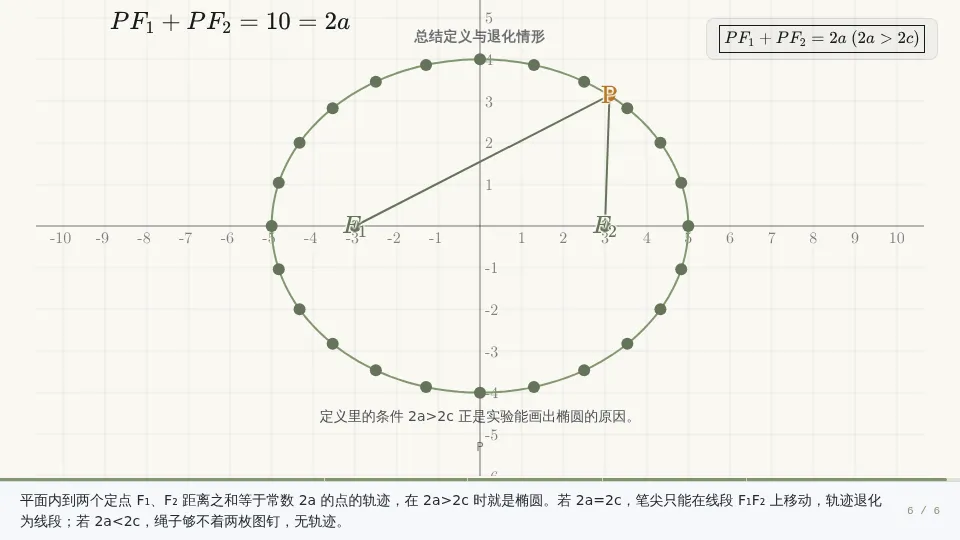
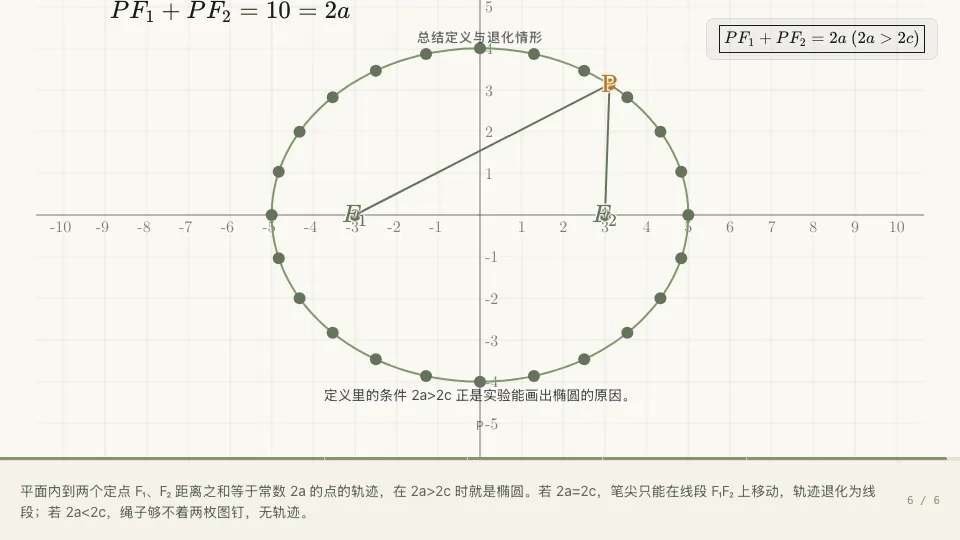
fix(player): 字幕条固定三行高度，视觉轨道不再随旁白跳动
字幕行原来以 minHeight 52 起步、随旁白长到三行，flex:1 的视觉轨道跟着
变矮，垂直居中的 AlgorithmRenderer / BarBlockRenderer 在步骤之间整体上下
跳（每行约 21px），graph_scene 整图轻微缩放。单调栈 mixed 预设第 6→7 步
标题上移 11px 就是这个原因。

- PlaybookComposition：字幕行改为固定 border-box 高度，始终预留
  SUBTITLE_MAX_LINES 行（3×21 + 2×8 内边距 + 1 边框 = 80px），视觉轨道
  恒为 457px；播放器与导出共用这一合成，两者一致。字号、行高、内边距
  收进 PLAYBOOK_LAYOUT，高度由它们推导。
- BarBlockRenderer：无辅助轨道时的柱区原为 342px，整列 498px 超出三行
  字幕下的轨道，二分查找 / 归并 / 快排每一步标题都被裁掉约 20px（修复前
  一行字幕时也裁约 6px）。柱区上限改为 288px，每条轨道的让出量从 110 改
  为实测占用的 56px：有轨道时的高度不变（单轨道仍为 232px，多轨道仍落在
  180px 下限），无轨道整列收到 444px。
- 重新渲染受影响的 28 张海报（另 4 张海报帧本就是三行字幕，不变）；生态学
  四张沿用深色主题。

diff --git a/apps/web/src/features/playbook/engine/renderers/BarBlockRenderer.test.tsx b/apps/web/src/features/playbook/engine/renderers/BarBlockRenderer.test.tsx
@@ -62,8 +62,8 @@ describe("BarBlockRenderer", () => {
     const markup = renderToStaticMarkup(BarBlockRenderer(props(barsStep(makeBars([9, 3])))));
     const hs = heightsOf(markup);
     // tallest bar reaches the max bar height; the value-3 bar is one third of it
-    expect(hs).toContain(342);
-    expect(hs).toContain(114);
+    expect(hs).toContain(288);
+    expect(hs).toContain(96);
   });
 
   it("keeps unchanged bars visible at the exact start of a later step", () => {
@@ -76,7 +76,7 @@ describe("BarBlockRenderer", () => {
     })));
 
     expect(markup).toMatch(/data-bar-index="0"[^>]*opacity:1/);
-    expect(markup).toContain("height:342px");
+    expect(markup).toContain("height:288px");
   });
 
   it("shrinks the bar field when auxiliary lanes need room under the pointer row", () => {
@@ -90,10 +90,10 @@ describe("BarBlockRenderer", () => {
     const markup = renderToStaticMarkup(BarBlockRenderer(props(barsStep(snap))));
     const hs = heightsOf(markup);
 
-    // 342 - 2 lanes * 110 = 122 → clamped to the 180px floor; the value-3 bar keeps its one-third proportion.
+    // 288 - 2 lanes * 56 = 176 → clamped to the 180px floor; the value-3 bar keeps its one-third proportion.
     expect(hs).toContain(180);
     expect(hs).toContain(60);
-    expect(hs).not.toContain(342);
+    expect(hs).not.toContain(288);
     expect(markup).toContain('data-auxiliary-role="deque"');
     expect(markup).toContain('data-auxiliary-role="result"');
   });
@@ -109,7 +109,7 @@ describe("BarBlockRenderer", () => {
     const markup = renderToStaticMarkup(BarBlockRenderer(props(barsStep(snap))));
     const hs = heightsOf(markup);
 
-    // Only the result row borrows height: 342 - 1 * 110 = 232.
+    // Only the result row borrows height: 288 - 1 * 56 = 232.
     expect(hs).toContain(232);
     expect(markup).toContain('data-stack-lane="stack"');
     expect(markup).toContain('data-stack-capacity="2"');
@@ -149,9 +149,9 @@ describe("BarBlockRenderer", () => {
 
     expect(markup.match(/data-bar-direction="negative"/g)).toHaveLength(2);
     expect(markup.match(/data-bar-direction="positive"/g)).toHaveLength(1);
-    expect(markup).toContain('data-zero-axis="171"');
-    expect(markup).toContain("height:171px");
-    expect(markup).toContain("height:57px");
+    expect(markup).toContain('data-zero-axis="144"');
+    expect(markup).toContain("height:144px");
+    expect(markup).toContain("height:48px");
     expect(markup).toContain('data-range-role="search_range"');
     expect(markup).toContain('data-element-states="leaving"');
     expect(markup).toContain('data-element-states="entering pivot"');

diff --git a/apps/web/src/features/playbook/engine/composition/PlaybookComposition.test.tsx b/apps/web/src/features/playbook/engine/composition/PlaybookComposition.test.tsx
@@ -29,6 +29,7 @@ vi.mock("remotion", async () => {
 
 import { PlaybookComposition } from "./PlaybookComposition";
 import { THEME_PALETTE } from "../../../../shared/config/themePalette";
+import { PLAYBOOK_LAYOUT } from "../../../../shared/config/constants";
 
 function plotSnapshot(expression = "x^2"): MathPlotSnapshot {
   return {
@@ -380,6 +381,10 @@ function layerOpenTag(markup: string, kind: string): string {
   return markup.match(new RegExp(`<div[^>]*data-layer-kind="${kind}"[^>]*>`))?.[0] ?? "";
 }
 
+function subtitleRowTag(markup: string): string {
+  return markup.match(/<div[^>]*data-playbook-subtitle-row="true"[^>]*>/)?.[0] ?? "";
+}
+
 describe("PlaybookComposition", () => {
   beforeEach(() => {
     remotionState.frame = 0;
@@ -445,6 +450,31 @@ describe("PlaybookComposition", () => {
     const markup = renderToStaticMarkup(<PlaybookComposition script={mathScript()} />);
     const matches = markup.match(/观察斜率变化/g) ?? [];
     expect(matches).toHaveLength(1);
+  });
+
+  it("reserves the full subtitle height so narration length never resizes the stage", () => {
+    // A row that grew with the narration shrank the flex:1 visual track under
+    // it, so every vertically centred renderer jumped whenever a caption
+    // wrapped onto another line.
+    const {
+      SUBTITLE_HEIGHT,
+      SUBTITLE_MAX_LINES,
+      SUBTITLE_FONT_SIZE,
+      SUBTITLE_LINE_HEIGHT,
+      SUBTITLE_PADDING_Y,
+    } = PLAYBOOK_LAYOUT;
+    const markup = renderToStaticMarkup(<PlaybookComposition script={mathScript()} />);
+    const row = subtitleRowTag(markup);
+
+    expect(row).toContain(`height:${SUBTITLE_HEIGHT}px`);
+    expect(row).toContain("box-sizing:border-box");
+    expect(row).not.toContain("min-height");
+    expect(markup).toContain(
+      `font-size:${SUBTITLE_FONT_SIZE}px;line-height:${SUBTITLE_LINE_HEIGHT}`,
+    );
+    expect(SUBTITLE_HEIGHT).toBeGreaterThanOrEqual(
+      SUBTITLE_MAX_LINES * SUBTITLE_FONT_SIZE * SUBTITLE_LINE_HEIGHT + 2 * SUBTITLE_PADDING_Y,
+    );
   });
 
   it("uses semantic theme colors for the stage progress bar", () => {

diff --git a/apps/web/src/features/playbook/engine/composition/PlaybookComposition.tsx b/apps/web/src/features/playbook/engine/composition/PlaybookComposition.tsx
@@ -494,17 +494,20 @@ export const PlaybookComposition: React.FC<PlaybookCompositionProps> = ({
           })}
         </div>
 
-        {/* Subtitle row — minHeight so short narration uses the compact row,
-            longer text wraps up to PLAYBOOK_LAYOUT.SUBTITLE_MAX_LINES before
-            the ellipsis kicks in. */}
+        {/* Subtitle row — always SUBTITLE_MAX_LINES tall so the visual track
+            above keeps one height for the whole lesson; shorter narration
+            sits centred in the reserved space, longer text is ellipsised. */}
         <div
+          data-playbook-subtitle-row="true"
           style={{
-            minHeight: subtitleHeight,
+            height: subtitleHeight,
+            boxSizing: "border-box",
+            overflow: "hidden",
             display: "flex",
             alignItems: "center",
-            padding: "8px 20px",
+            padding: `${PLAYBOOK_LAYOUT.SUBTITLE_PADDING_Y}px 20px`,
             background: subtitleBg,
-            borderTop: `1px solid ${dividerColor}`,
+            borderTop: `${PLAYBOOK_LAYOUT.SUBTITLE_BORDER_TOP}px solid ${dividerColor}`,
             gap: 12,
           }}
         >
@@ -512,8 +515,8 @@ export const PlaybookComposition: React.FC<PlaybookCompositionProps> = ({
             style={{
               color: subtitleColor,
               fontFamily: "system-ui, -apple-system, sans-serif",
-              fontSize: 14,
-              lineHeight: 1.5,
+              fontSize: PLAYBOOK_LAYOUT.SUBTITLE_FONT_SIZE,
+              lineHeight: PLAYBOOK_LAYOUT.SUBTITLE_LINE_HEIGHT,
               flex: 1,
               display: "-webkit-box",
               WebkitBoxOrient: "vertical",

diff --git a/apps/web/src/shared/config/constants.ts b/apps/web/src/shared/config/constants.ts
@@ -18,14 +18,31 @@ export const RECHARGE_USAGE_ESTIMATE = {
   UNIT_LABEL: "基础生成",
 } as const;
 
+const SUBTITLE_MAX_LINES = 3;
+const SUBTITLE_FONT_SIZE = 14;
+const SUBTITLE_LINE_HEIGHT = 1.5;
+const SUBTITLE_PADDING_Y = 8;
+const SUBTITLE_BORDER_TOP = 1;
+
 export const PLAYBOOK_LAYOUT = {
   /** Fraction of width allocated to the viz panel when code track is present (0–1) */
   VIZ_SPLIT_RATIO: 0.5,
-  /** Minimum height of the subtitle bar in px (within the composition canvas).
-   *  The actual row grows up to MAX_LINES * line-height when narration wraps. */
-  SUBTITLE_HEIGHT: 52,
   /** Maximum number of subtitle lines before truncating with ellipsis. */
-  SUBTITLE_MAX_LINES: 3,
+  SUBTITLE_MAX_LINES,
+  /** Subtitle text size in px; with LINE_HEIGHT it fixes one line box (21px). */
+  SUBTITLE_FONT_SIZE,
+  SUBTITLE_LINE_HEIGHT,
+  /** Vertical padding of the subtitle row in px. */
+  SUBTITLE_PADDING_Y,
+  SUBTITLE_BORDER_TOP,
+  /** Fixed border-box height of the subtitle row in px: always MAX_LINES
+   *  tall, whatever the narration length. A row that grew with the text
+   *  shrank the flex:1 visual track, so centred renderers jumped between
+   *  steps. Export and the in-browser player share this composition. */
+  SUBTITLE_HEIGHT:
+    SUBTITLE_MAX_LINES * SUBTITLE_FONT_SIZE * SUBTITLE_LINE_HEIGHT +
+    2 * SUBTITLE_PADDING_Y +
+    SUBTITLE_BORDER_TOP,
   /** Frames for subtitle fade-in at the start of each step */
   SUBTITLE_FADE_FRAMES: 12,
 } as const;

diff --git a/apps/web/src/features/playbook/engine/renderers/BarBlockRenderer.tsx b/apps/web/src/features/playbook/engine/renderers/BarBlockRenderer.tsx
@@ -73,14 +73,17 @@ const VAR = {
 
 const ENTER_BEZIER = Easing.bezier(0.16, 1, 0.3, 1);
 const MOVE_FRAMES = 22;
-const MAX_BAR_HEIGHT = 342;
+// The subtitle strip always reserves three lines, so the visual track is a
+// fixed 457px of the 540px frame. Title, bar field and pointer row add
+// 156px around the bars; 288 keeps that column at ~444px, inside the track
+// with a few px to spare — the old 342 overflowed it by ~40px and clipped
+// the step title of every lane-free case.
+const MAX_BAR_HEIGHT = 288;
 const MIN_BAR_HEIGHT = 6;
 // Auxiliary lanes (a stack, a result row) sit under the pointer row; each
-// one borrows this much from the bar field so the lanes stay inside the
-// 16:9 stage instead of sliding under the caption strip.
-// 110 per lane keeps title, bars, pointer row and one lane inside a 16:9
-// stage even under a three-line subtitle (≈448px of usable height).
-const LANE_FIELD_RESERVE = 110;
+// one costs the column 56px (lane plus gap), so the bar field gives that
+// much back and the column height stays the same with or without lanes.
+const LANE_FIELD_RESERVE = 56;
 const MIN_BAR_FIELD_HEIGHT = 180;
 // Headroom above the tallest bar so its value label (top: -22) never rides
 // into the step title when the centered column overflows a short scene.
